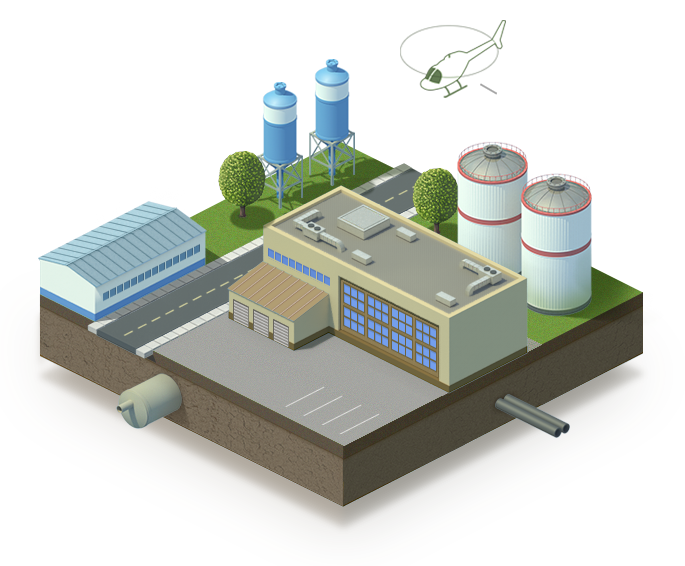
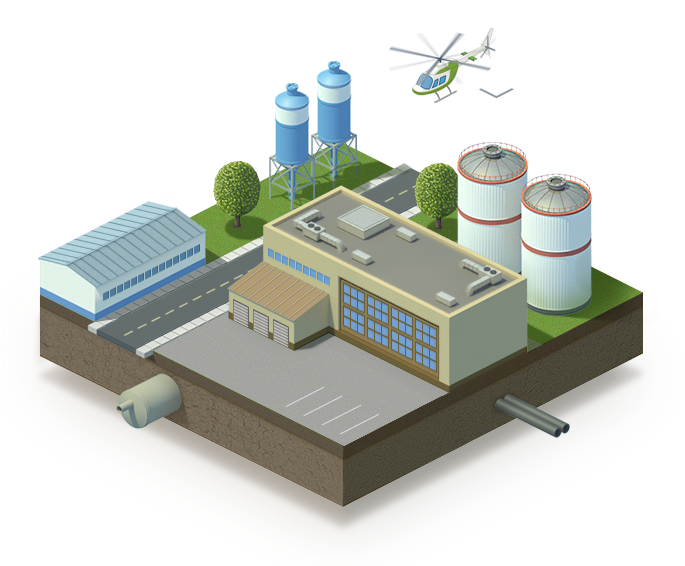
new illustrations

diff --git a/protected/extensions/widgets/mainPage/less/aboutProject.less b/protected/extensions/widgets/mainPage/less/aboutProject.less
@@ -9,7 +9,7 @@
         .font(PF, regular);
         .font-size(22, 1);
         color: @colorTitleGrey;
-        padding-top: 28px;
+        padding-top: 24px;
         padding-left: @bigPadding;
         padding-bottom: @bigPadding;
 

diff --git a/protected/extensions/widgets/mainPage/css/aboutProject.css b/protected/extensions/widgets/mainPage/css/aboutProject.css
@@ -8,7 +8,7 @@
   font-size: 22px;
   line-height: 1;
   color: #667075;
-  padding-top: 28px;
+  padding-top: 24px;
   padding-left: 22px;
   padding-bottom: 22px;
 }

diff --git a/protected/modules/mainPage/css/mainPage.css b/protected/modules/mainPage/css/mainPage.css
@@ -48,7 +48,7 @@
 }
 .main-page .col1-block3 {
   position: absolute;
-  top: 100px;
+  top: 80px;
   left: 490px;
 }
 .main-page .padding-block {

diff --git a/protected/modules/mainPage/less/mainPage.less b/protected/modules/mainPage/less/mainPage.less
@@ -36,7 +36,7 @@
     }
     .col1-block3 {
         position: absolute;
-        top: 100px;
+        top: 80px;
         left: 490px;
     }
 
